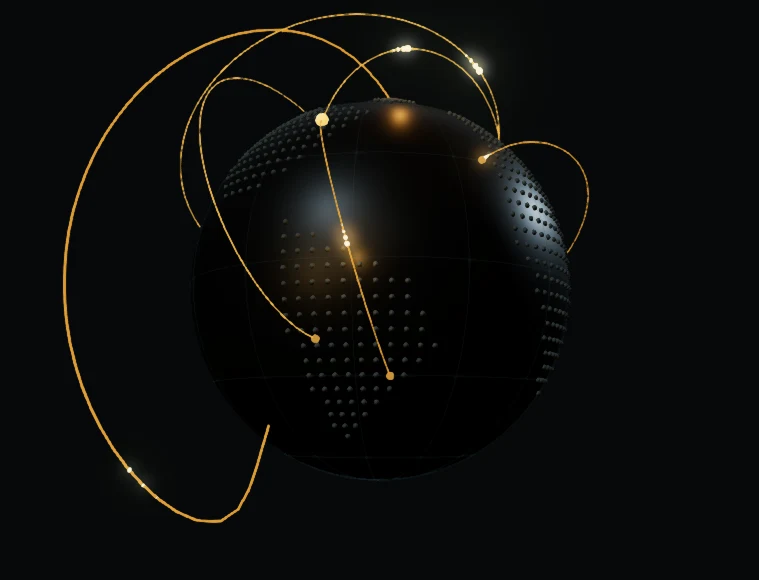
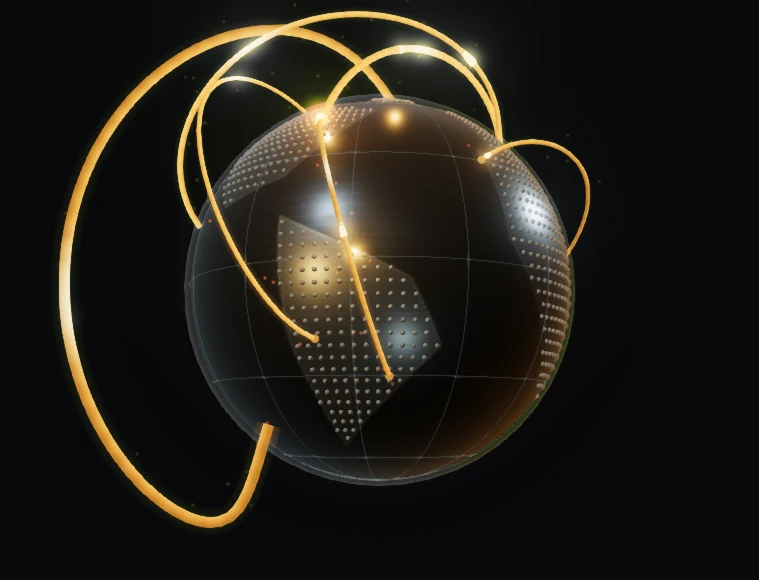
feat: enrich contact globe materials and amber energy

Changed region(s): [[0.0606, 0.0, 0.7879, 0.931], [0.6061, 0.4345, 0.6364, 0.4655]]

diff --git a/src/components/three/ContactGlobeScene.tsx b/src/components/three/ContactGlobeScene.tsx
@@ -1,7 +1,7 @@
 import {useEffect,useLayoutEffect,useMemo,useRef,type RefObject} from 'react';
 import {useFrame,useThree} from '@react-three/fiber';
-import {Color,BufferGeometry,Float32BufferAttribute,Group,InstancedMesh,MathUtils,Matrix4,MeshBasicMaterial,MeshStandardMaterial,PointLight,SphereGeometry,TubeGeometry,Vector2,Vector3,CatmullRomCurve3} from 'three';
-import {useResource} from './resources';
+import {Color,BufferGeometry,Float32BufferAttribute,Group,InstancedMesh,MathUtils,Matrix4,MeshBasicMaterial,MeshStandardMaterial,PointLight,SphereGeometry,TubeGeometry,Vector2,Vector3,CatmullRomCurve3,ShaderMaterial,AdditiveBlending,Points,PointsMaterial,RepeatWrapping} from 'three';
+import {useResource,canvasTexture,useGlow} from './resources';
 import type {SceneProps} from './types';
 const R=1.72;
 const surface=(lat:number,lon:number,r=R)=>{const a=lat*Math.PI/180,b=lon*Math.PI/180;return new Vector3(r*Math.cos(a)*Math.sin(b),r*Math.sin(a),r*Math.cos(a)*Math.cos(b));};
@@ -11,30 +11,42 @@ function inside(x:number,y:number,p:number[][]){let hit=false;for(let i=0,j=p.le
 function route(from:[number,number],to:[number,number],height:number,sweep=false){const a=surface(...from,1),b=surface(...to,1),points=[];for(let i=0;i<=40;i++){const t=i/40,v=a.clone().lerp(b,t).normalize();if(sweep)v.applyAxisAngle(new Vector3(0,0,1),Math.sin(t*Math.PI)*.48);points.push(v.multiplyScalar(R+.025+Math.sin(t*Math.PI)*height));}return new CatmullRomCurve3(points);}
 const paths=[route([45.42,-75.7],[35,70],.48),route([45.42,-75.7],[-30,-50],.27),route([15,-120],[50,30],.73),route([-25,135],[30,-20],.4),route([55,145],[-20,-70],.6),route([-45,-100],[65,100],1.03,true)];
 function Arc({index,reducedMotion,pointer}:{index:number;reducedMotion:boolean;pointer:RefObject<Vector2>}){
- const time=useRef(0),band=index%2;
- const geometry=useResource(`contact-route-${index}`,()=>new TubeGeometry(paths[index],48,index===5?.012:.007,5,false));
- const material=useResource(`contact-route-material-${band}`,()=>new MeshStandardMaterial({color:'#8e652e',emissive:'#ff9a25',emissiveIntensity:.85,metalness:.65,roughness:.36}));
- useFrame((_,delta)=>{if(!reducedMotion)time.current+=Math.min(delta,.08);material.emissiveIntensity=reducedMotion?.85:.62+.3*Math.sin(time.current*.16+band*2)**2+(band===0?.14*Math.max(0,1-pointer.current.length()):0);});
- return <mesh geometry={geometry} material={material} dispose={null}/>;
+ const time=useRef(0),band=index%2,width=index===5?.045:index===0?.032:index===2?.025:.019;
+ const geometry=useResource(`contact-rich-route-${index}`,()=>new TubeGeometry(paths[index],96,width,8,false));
+ const haloGeometry=useResource(`contact-rich-halo-${index}`,()=>new TubeGeometry(paths[index],64,width*2.7,8,false));
+ const material=useResource(`contact-rich-route-material-${band}`,()=>new ShaderMaterial({uniforms:{time:{value:0},strength:{value:1}},vertexShader:`varying vec2 routeUV; void main(){routeUV=uv;gl_Position=projectionMatrix*modelViewMatrix*vec4(position,1.);}`,fragmentShader:`varying vec2 routeUV;uniform float time;uniform float strength;void main(){float band=.74+.26*sin(routeUV.x*260.-time*3.);float pulse=pow(max(0.,cos((routeUV.x-time*.08)*6.283)),24.);float edge=.65+.35*sin(routeUV.y*6.283);vec3 amber=mix(vec3(1.,.34,.035),vec3(1.,.78,.35),pulse*.65);gl_FragColor=vec4(amber*(1.15+band*.45+pulse*1.8)*strength*edge,1.);}`,toneMapped:false}));
+ const halo=useResource('contact-route-halo',()=>new ShaderMaterial({transparent:true,depthWrite:false,blending:AdditiveBlending,toneMapped:false,vertexShader:`varying vec3 n;varying vec3 v;void main(){vec4 p=modelViewMatrix*vec4(position,1.);n=normalize(normalMatrix*normal);v=normalize(-p.xyz);gl_Position=projectionMatrix*p;}`,fragmentShader:`varying vec3 n;varying vec3 v;void main(){float soft=pow(max(0.,dot(normalize(n),normalize(v))),2.);gl_FragColor=vec4(1.,.46,.08,soft*.075);}`}));
+ useFrame((_,delta)=>{if(!reducedMotion)time.current+=Math.min(delta,.08);material.uniforms.time.value=time.current;material.uniforms.strength.value=reducedMotion?1:.9+.14*Math.sin(time.current*.16+band*2)**2+(band===0?.12*Math.max(0,1-pointer.current.length()):0);});
+ return <group><mesh geometry={geometry} material={material} dispose={null}/><mesh geometry={haloGeometry} material={halo} dispose={null}/></group>;
 }
 export default function ContactGlobeScene({tier,reducedMotion}:SceneProps){
+ const sparks=useRef<Points>(null);const glow=useGlow();
+ const surfaceTexture=useResource('contact-graphite-surface',()=>canvasTexture(ctx=>{ctx.fillStyle='#293339';ctx.fillRect(0,0,512,512);for(const polygon of lands){ctx.beginPath();polygon.forEach(([lon,lat],i)=>{const x=(lon+180)/360*512,y=(90-lat)/180*512;if(i)ctx.lineTo(x,y);else ctx.moveTo(x,y);});ctx.closePath();ctx.fillStyle='#515b5e';ctx.fill();ctx.strokeStyle='#717a78';ctx.lineWidth=.65;ctx.stroke();}for(let i=0;i<2200;i++){const x=i*137%512,y=i*73%512;ctx.fillStyle=i%3?'#101b2320':'#c6ccc022';ctx.fillRect(x,y,1+i%3,.7);}ctx.strokeStyle='#b5bdb718';for(let y=0;y<512;y+=8){ctx.beginPath();ctx.moveTo(0,y);ctx.lineTo(512,y);ctx.stroke();}},512,true));
+ useLayoutEffect(()=>{surfaceTexture.wrapS=RepeatWrapping;surfaceTexture.offset.x=.25;surfaceTexture.needsUpdate=true;},[surfaceTexture]);
+ const grain=useResource('contact-surface-grain',()=>canvasTexture(ctx=>{ctx.fillStyle='#a0a0a0';ctx.fillRect(0,0,128,128);for(let i=0;i<900;i++){ctx.fillStyle=i%2?'#888888':'#b5b5b5';ctx.fillRect(i*43%128,i*61%128,2,1);}},128));
  const globe=useRef<Group>(null),nodes=useRef<InstancedMesh>(null),land=useRef<InstancedMesh>(null),pulses=useRef<InstancedMesh>(null),lights=useRef<(PointLight|null)[]>([]),ottawa=useRef<MeshStandardMaterial>(null),pointer=useRef(new Vector2()),clock=useRef(0),matrix=useMemo(()=>new Matrix4(),[]);
  const {camera,size,gl,invalidate}=useThree();const count=tier==='low'?3:6;const pathIndex=(i:number)=>tier==='low'&&i===2?5:i;
- const dots=useMemo(()=>{const list:Vector3[]=[];for(let lat=-54;lat<78;lat+=tier==='low'?6:4)for(let lon=-178;lon<180;lon+=tier==='low'?6:4)if(lands.some(p=>inside(lon,lat,p)))list.push(surface(lat,lon,R+.008));return list;},[tier]);
- const dotGeometry=useResource('contact-land-dot',()=>new SphereGeometry(.024,5,4)),nodeGeometry=useResource('contact-node',()=>new SphereGeometry(.033,8,6)),pulseGeometry=useResource('contact-pulse',()=>new SphereGeometry(.035,8,6));
- const landMaterial=useResource('contact-land-metal',()=>new MeshStandardMaterial({color:'#536367',metalness:.82,roughness:.46})),nodeMaterial=useResource('contact-node-material',()=>new MeshBasicMaterial({color:'#bc8135'})),pulseMaterial=useResource('contact-pulse-material',()=>new MeshBasicMaterial({color:new Color('#ffca72').multiplyScalar(3.2),toneMapped:false}));
+ const dots=useMemo(()=>{const list:Vector3[]=[];for(let lat=-54;lat<78;lat+=tier==='low'?5:3.2)for(let lon=-178;lon<180;lon+=tier==='low'?5:3.2)if(lands.some(p=>inside(lon,lat,p)))list.push(surface(lat,lon,R+.008));return list;},[tier]);
+ const dotGeometry=useResource('contact-land-dot',()=>new SphereGeometry(.022,5,3)),nodeGeometry=useResource('contact-node',()=>new SphereGeometry(.033,8,6)),pulseGeometry=useResource('contact-pulse',()=>new SphereGeometry(.043,8,6));
+ const landMaterial=useResource('contact-land-metal',()=>new MeshStandardMaterial({color:'#899294',metalness:.74,roughness:.37})),nodeMaterial=useResource('contact-node-material',()=>new MeshBasicMaterial({color:'#bc8135'})),pulseMaterial=useResource('contact-pulse-material',()=>new MeshBasicMaterial({color:new Color('#ffca72').multiplyScalar(3.2),toneMapped:false}));
+ const sparkGeometry=useResource(`contact-sparks-${tier==='low'}`,()=>{const positions=[];for(let i=0;i<(tier==='low'?36:110);i++){const path=paths[i%paths.length],p=path.getPoint((i*.618)%1);p.x+=Math.sin(i*17)*.13;p.y+=Math.cos(i*23)*.13;p.z+=Math.sin(i*31)*.13;positions.push(...p.toArray());}const g=new BufferGeometry();g.setAttribute('position',new Float32BufferAttribute(positions,3));return g;});
+ const sparkMaterial=useResource('contact-spark-material',()=>new PointsMaterial({color:new Color('#ffba59').multiplyScalar(1.8),map:glow,size:.085,transparent:true,opacity:.78,depthWrite:false,blending:AdditiveBlending,toneMapped:false}));
  const grid=useResource('contact-grid',()=>{const vertices:number[]=[];for(let lat=-60;lat<=60;lat+=30)for(let lon=-180;lon<180;lon+=5)vertices.push(...surface(lat,lon,R+.012).toArray(),...surface(lat,lon+5,R+.012).toArray());for(let lon=-180;lon<180;lon+=30)for(let lat=-90;lat<90;lat+=5)vertices.push(...surface(lat,lon,R+.012).toArray(),...surface(lat+5,lon,R+.012).toArray());const g=new BufferGeometry();g.setAttribute('position',new Float32BufferAttribute(vertices,3));return g;});
  useLayoutEffect(()=>{dots.forEach((p,i)=>land.current?.setMatrixAt(i,matrix.makeTranslation(p.x,p.y,p.z)));if(land.current)land.current.instanceMatrix.needsUpdate=true;Array.from({length:count},(_,i)=>nodes.current?.setMatrixAt(i,matrix.makeTranslation(...paths[pathIndex(i)].getPoint(1).toArray())));if(nodes.current)nodes.current.instanceMatrix.needsUpdate=true;},[dots,count,matrix]);
  useEffect(()=>{camera.position.set(0,.12,size.width<size.height?9.4:8.3);camera.lookAt(0,0,0);invalidate();const canvas=gl.domElement;const move=(e:PointerEvent)=>{if(reducedMotion||tier==='low'||e.pointerType!=='mouse')return;const b=canvas.getBoundingClientRect();pointer.current.set(MathUtils.clamp((e.clientX-b.left)/b.width*2-1,-1,1),MathUtils.clamp((e.clientY-b.top)/b.height*2-1,-1,1));};const leave=()=>pointer.current.set(0,0);canvas.addEventListener('pointermove',move,{passive:true});canvas.addEventListener('pointerleave',leave);return()=>{canvas.removeEventListener('pointermove',move);canvas.removeEventListener('pointerleave',leave);};},[camera,size.width,size.height,gl,invalidate,reducedMotion,tier]);
- useFrame((_,delta)=>{const dt=Math.min(delta,.08);if(!reducedMotion)clock.current+=dt;const t=clock.current;if(globe.current){globe.current.rotation.y=MathUtils.damp(globe.current.rotation.y,.86+t*.014+(reducedMotion?0:pointer.current.x*.065),4,dt);globe.current.rotation.x=MathUtils.damp(globe.current.rotation.x,-.16+(reducedMotion?0:pointer.current.y*.055),4,dt);}for(let i=0;i<count;i++){const phase=reducedMotion?.38:(t*(.075+i*.009)+i*.163)%1,activation=reducedMotion?.7:.6+.4*Math.sin(t*.23+i*1.7)**2;for(let j=0;j<4;j++){const p=paths[pathIndex(i)].getPoint((phase-j*.014+1)%1),scale=(1-j*.2)*activation;matrix.makeScale(scale,scale,scale).setPosition(p);pulses.current?.setMatrixAt(i*4+j,matrix);}if(lights.current[i]){lights.current[i]!.position.copy(paths[pathIndex(i)].getPoint(phase));lights.current[i]!.intensity=.8*activation;}}if(pulses.current)pulses.current.instanceMatrix.needsUpdate=true;if(ottawa.current)ottawa.current.emissiveIntensity=reducedMotion?1.1:1.1+Math.sin(t*1.8)*.22+Math.max(0,1-pointer.current.length())*.2;const sample=window.__PORTFOLIO_PROFILE__?.scenes.contact;if(sample)Object.assign(sample,{activePaths:count,landNodes:dots.length,clock:t,rotation:globe.current?.rotation.toArray()});});
+ useFrame((_,delta)=>{const dt=Math.min(delta,.08);if(!reducedMotion)clock.current+=dt;const t=clock.current;if(sparks.current&&!reducedMotion){sparks.current.rotation.y=Math.sin(t*.12)*.015;sparks.current.rotation.z=Math.sin(t*.17)*.012;}if(globe.current){globe.current.rotation.y=MathUtils.damp(globe.current.rotation.y,.86+t*.014+(reducedMotion?0:pointer.current.x*.065),4,dt);globe.current.rotation.x=MathUtils.damp(globe.current.rotation.x,-.16+(reducedMotion?0:pointer.current.y*.055),4,dt);}for(let i=0;i<count;i++){const phase=reducedMotion?.38:(t*(.075+i*.009)+i*.163)%1,activation=reducedMotion?.7:.6+.4*Math.sin(t*.23+i*1.7)**2;for(let j=0;j<9;j++){const p=paths[pathIndex(i)].getPoint((phase-j*.008+1)%1),scale=(1-j*.095)*activation;matrix.makeScale(scale,scale,scale).setPosition(p);pulses.current?.setMatrixAt(i*9+j,matrix);}if(lights.current[i]){lights.current[i]!.position.copy(paths[pathIndex(i)].getPoint(phase));lights.current[i]!.intensity=1.3*activation;}}if(pulses.current)pulses.current.instanceMatrix.needsUpdate=true;if(ottawa.current)ottawa.current.emissiveIntensity=reducedMotion?1.1:1.1+Math.sin(t*1.8)*.22+Math.max(0,1-pointer.current.length())*.2;const sample=window.__PORTFOLIO_PROFILE__?.scenes.contact;if(sample)Object.assign(sample,{activePaths:count,landNodes:dots.length,particles:tier==='low'?36:110,clock:t,rotation:globe.current?.rotation.toArray()});});
  return <group><group ref={globe} rotation={[-.16,.86,0]}>
-  <mesh><sphereGeometry args={[R,tier==='low'?40:64,tier==='low'?24:40]}/><meshStandardMaterial color='#111a1e' metalness={.72} roughness={.43}/></mesh>
+  <mesh><sphereGeometry args={[R,tier==='low'?40:64,tier==='low'?24:40]}/><meshStandardMaterial map={surfaceTexture} roughnessMap={grain} bumpMap={grain} bumpScale={.018} metalness={.65} roughness={.49}/></mesh>
+  <mesh scale={1.035}><sphereGeometry args={[R,40,24]}/><shaderMaterial transparent depthWrite={false} blending={AdditiveBlending} vertexShader={"varying vec3 n;varying vec3 v;void main(){vec4 p=modelViewMatrix*vec4(position,1.);n=normalize(normalMatrix*normal);v=normalize(-p.xyz);gl_Position=projectionMatrix*p;}"} fragmentShader={"varying vec3 n;varying vec3 v;void main(){float f=pow(1.-max(0.,dot(normalize(n),normalize(v))),3.);vec3 c=mix(vec3(.32,.43,.48),vec3(.8,.38,.08),smoothstep(-.4,.6,n.x));gl_FragColor=vec4(c,f*.26);}"}/></mesh>
+  <points ref={sparks} geometry={sparkGeometry} material={sparkMaterial} dispose={null}/>
   <instancedMesh ref={land} args={[dotGeometry,landMaterial,dots.length]} dispose={null}/>
-  <lineSegments geometry={grid} dispose={null}><lineBasicMaterial color='#34484e' transparent opacity={.24}/></lineSegments>
+  <lineSegments geometry={grid} dispose={null}><lineBasicMaterial color='#7a8b8e' transparent opacity={.32}/></lineSegments>
   {Array.from({length:count},(_,i)=><Arc key={i} reducedMotion={reducedMotion} pointer={pointer} index={tier==='low'&&i===2?5:i}/>)}
   <instancedMesh ref={nodes} args={[nodeGeometry,nodeMaterial,count]} dispose={null}/>
-  <instancedMesh ref={pulses} args={[pulseGeometry,pulseMaterial,count*4]} dispose={null}/>
+  <instancedMesh ref={pulses} args={[pulseGeometry,pulseMaterial,count*9]} dispose={null}/>
   {tier!=='low'&&[0,1].map(i=><pointLight key={i} ref={l=>{lights.current[i]=l;}} color='#ffae49' intensity={.4} distance={2} decay={2}/>)}
+  <pointLight position={surface(45.42,-75.7,R+.18)} color='#ffb757' intensity={.65} distance={1.4} decay={2}/>
+  <sprite position={surface(45.42,-75.7,R+.07)} scale={[.4,.4,1]}><spriteMaterial map={glow} color='#ffba59' transparent opacity={.6} depthWrite={false} blending={AdditiveBlending}/></sprite>
   <mesh position={surface(45.42,-75.7,R+.035)}><sphereGeometry args={[.057,12,8]}/><meshStandardMaterial ref={ottawa} color='#ffbd59' emissive='#ffad38' emissiveIntensity={1.1}/></mesh>
- </group><directionalLight position={[-3,1,4]} color='#ffbd6a' intensity={1.05}/></group>;
+ </group><sprite position={[0,0,-2.1]} scale={[6.4,6.4,1]}><spriteMaterial map={glow} color='#b87739' transparent opacity={.12} depthWrite={false} blending={AdditiveBlending}/></sprite><directionalLight position={[-3,1,4]} color='#ffbd6a' intensity={1.8}/><directionalLight position={[1,-2,4]} color='#a3adb1' intensity={.75}/></group>;
 }

diff --git a/docs/globe-correction/README.md b/docs/globe-correction/README.md
@@ -1,0 +1,16 @@
+# Contact globe correction
+
+The globe now uses substantially thicker, varied-width amber conduits with animated banding, moving highlights, soft depth-tested halos and nine-part pulse trails. Graphite continent plates, denser metallic dot fields, procedural surface grain, brighter neutral/amber fill and a restrained atmospheric rim give the sphere visible structure. Ottawa has a local light and glow anchor. Controlled energy motes follow the route environment: 110 desktop / 36 mobile. The final refinement softened halo edges and smoothed the thickest routes.
+
+Six desktop paths / three mobile paths remain depth-occluded by the sphere. Shared materials, instanced land/nodes/pulses, one points draw, adaptive DPR/bloom and the existing offscreen budget remain in use. No shadows, new renderer, heavy globe asset or routing change. Desktop sample: 37 calls including bloom, 59,719 triangles; mobile: 16 calls, 27,232 triangles. This is a richer but bounded scene; software-browser samples do not establish hardware frame rate.
+
+Reduced motion preserves the new materials, surface detail, glow and fixed pulse composition, with no continuous clock or pointer reaction. Mobile keeps thick routes and lit surface detail without bloom or the two traveling lights. The production fallback was regenerated from the real scene.
+
+Build, typecheck and changed-file lint passed. Four requested views were visually inspected; energy motion, offscreen pause, reduced-motion demand rendering and one mocked form submission passed with no page errors. No real message, Lighthouse or broader site QA.
+
+- [Desktop hero](contact-desktop.jpg)
+- [Globe close-up](contact-globe.jpg)
+- [Mobile Contact](contact-mobile.jpg)
+- [Reduced-motion Contact](contact-reduced.jpg)
+
+The continental outlines remain conceptual and geometric; the result is still less organically detailed than the reference CGI. Its surface illumination, route thickness and energy density are clearly stronger than the previous version.
